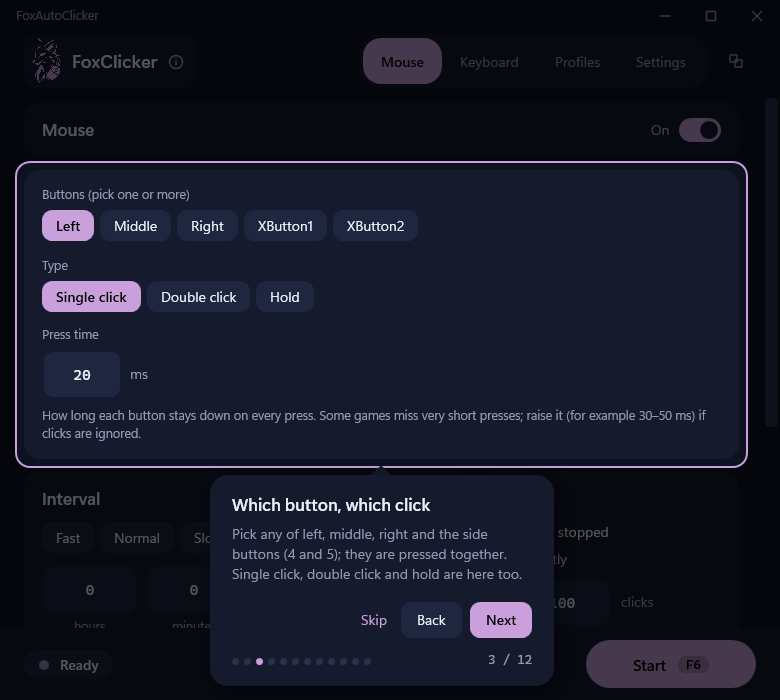
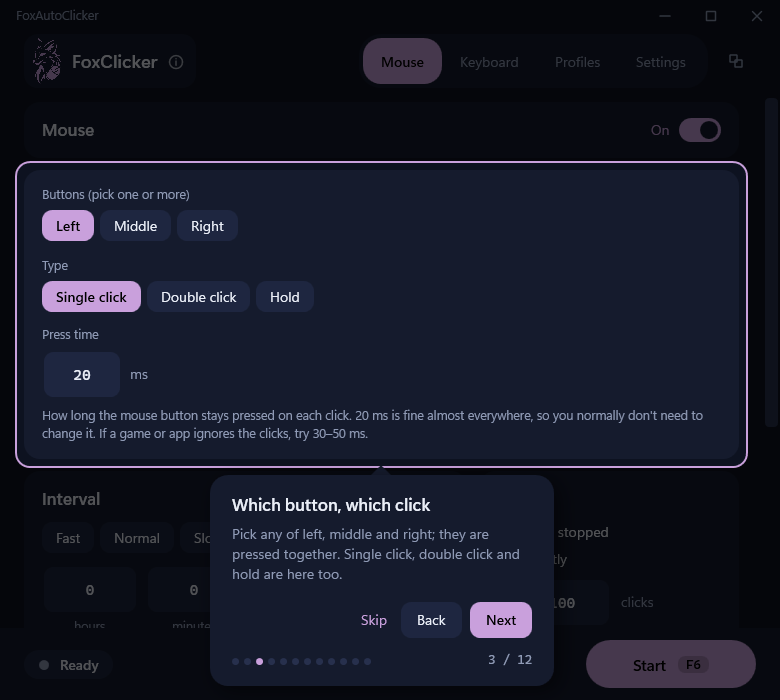
FoxClicker 0.3.7: fix hotkey flicker when held, mouse buttons row
- Holding the hotkey key no longer toggles the clicker on and off: the
  operating system's key auto-repeat is ignored until the key is released.
- The mouse tab offers left, middle and right buttons only (XButton1/2 stay
  available as the start/stop hotkey).
- Clearer wording for the press time setting.

diff --git a/MainWindow.xaml b/MainWindow.xaml
@@ -96,8 +96,6 @@
                                             <ToggleButton x:Name="MbLeft" Style="{StaticResource SegmentToggle}" Content="{local:L seg_left}" IsChecked="True" Margin="0,0,6,6"/>
                                             <ToggleButton x:Name="MbMiddle" Style="{StaticResource SegmentToggle}" Content="{local:L seg_middle}" Margin="0,0,6,6"/>
                                             <ToggleButton x:Name="MbRight" Style="{StaticResource SegmentToggle}" Content="{local:L seg_right}" Margin="0,0,6,6"/>
-                                            <ToggleButton x:Name="MbX1" Style="{StaticResource SegmentToggle}" Content="{local:L seg_x1}" ToolTip="{local:L seg_x1_tip}" Margin="0,0,6,6"/>
-                                            <ToggleButton x:Name="MbX2" Style="{StaticResource SegmentToggle}" Content="{local:L seg_x2}" ToolTip="{local:L seg_x2_tip}" Margin="0,0,6,6"/>
                                         </WrapPanel>
                                     </StackPanel>
                                     <StackPanel Grid.Row="1" Margin="0,10,0,0">

diff --git a/MainWindow.xaml.cs b/MainWindow.xaml.cs
@@ -142,15 +142,22 @@ public partial class MainWindow : Window
 
     DispatcherTimer? _holdTimer;
     readonly MouseHotkeyHook _mouseHook = new();
+    bool _hotkeyLatched;     // kısayol tuşu hâlâ basılı: tekrar eden basışlar yok sayılır
+    bool _holdStarted;       // "basılı tut" modunda bu basışla başladı: tuş bırakılınca durdur
 
     static bool IsMouseHotkey(int vk) => vk is 5 or 6;
 
     void OnHotkeyPressed()
     {
+        // Klavyede bir tuşu basılı tutunca işletim sistemi tekrar tekrar "basıldı" gönderir. Her biri aç/kapat sayılırsa
+        // tıklayıcı sürekli açılıp kapanır. Tuş bırakılana dek ilk basıştan sonrakileri yok say.
+        if (_hotkeyLatched) return;
+        _hotkeyLatched = true;
+
         var wasActive = _ctl.IsActive;
         Toggle(fromButton: false);
-        // "basılı tut" modunda: tuşla başladıysa, tuş bırakılınca durdur
-        if (_cfg.HotkeyHold && !wasActive && _ctl.IsActive) StartHoldWatch();
+        _holdStarted = _cfg.HotkeyHold && !wasActive && _ctl.IsActive;
+        StartHoldWatch();
     }
 
     void StartHoldWatch()
@@ -163,13 +170,18 @@ public partial class MainWindow : Window
 
     void HoldTick(object? sender, EventArgs e)
     {
-        if (!_ctl.IsActive) { _holdTimer?.Stop(); return; }
         var down = IsMouseHotkey(_cfg.HotkeyVk)
             ? _mouseHook.IsDown
             : (Native.GetAsyncKeyState(_cfg.HotkeyVk) & 0x8000) != 0;
         if (down) return;                                                    // hâlâ basılı
+
         _holdTimer?.Stop();
-        StopAll(finishedNaturally: false);
+        _hotkeyLatched = false;                                              // bırakıldı: yeni basış kabul edilir
+        if (_holdStarted)
+        {
+            _holdStarted = false;
+            if (_ctl.IsActive) StopAll(finishedNaturally: false);            // basılı tutma modunda bırakınca durdur
+        }
     }
 
     // ── başlık çubuğu ──
@@ -340,8 +352,6 @@ public partial class MainWindow : Window
         MbLeft.IsChecked = (m.Buttons & 1) != 0;
         MbMiddle.IsChecked = (m.Buttons & 2) != 0;
         MbRight.IsChecked = (m.Buttons & 4) != 0;
-        MbX1.IsChecked = (m.Buttons & 8) != 0;
-        MbX2.IsChecked = (m.Buttons & 16) != 0;
         TbPress.Text = m.PressMs.ToString();
         (m.Hold ? MtHold : m.Double ? MtDouble : MtSingle).IsChecked = true;
         (m.Fixed ? PosFixed : PosCursor).IsChecked = true;
@@ -382,8 +392,7 @@ public partial class MainWindow : Window
     {
         var m = _cfg.Mouse;
         m.Enabled = ChkMouse.IsChecked == true;
-        m.Buttons = (MbLeft.IsChecked == true ? 1 : 0) | (MbMiddle.IsChecked == true ? 2 : 0) | (MbRight.IsChecked == true ? 4 : 0)
-                    | (MbX1.IsChecked == true ? 8 : 0) | (MbX2.IsChecked == true ? 16 : 0);
+        m.Buttons = (MbLeft.IsChecked == true ? 1 : 0) | (MbMiddle.IsChecked == true ? 2 : 0) | (MbRight.IsChecked == true ? 4 : 0);
         m.Double = MtDouble.IsChecked == true;
         m.PressMs = Num(TbPress.Text, 1000);
         m.Hold = MtHold.IsChecked == true;

diff --git a/Loc.cs b/Loc.cs
@@ -52,12 +52,8 @@ public sealed class Loc : INotifyPropertyChanged
         ["seg_left"] = ("Sol", "Left"),
         ["seg_middle"] = ("Orta", "Middle"),
         ["seg_right"] = ("Sağ", "Right"),
-        ["seg_x1"] = ("XButton1", "XButton1"),
-        ["seg_x2"] = ("XButton2", "XButton2"),
-        ["seg_x1_tip"] = ("Yan düğme 4 (geri)", "Side button 4 (back)"),
-        ["seg_x2_tip"] = ("Yan düğme 5 (ileri)", "Side button 5 (forward)"),
         ["press_label"] = ("Basma süresi", "Press time"),
-        ["press_note"] = ("Her basışta düğmenin basılı kaldığı süre. Bazı oyunlar çok kısa basışları görmez; tıklamalar yok sayılıyorsa artırın (ör. 30–50 ms).", "How long each button stays down on every press. Some games miss very short presses; raise it (for example 30–50 ms) if clicks are ignored."),
+        ["press_note"] = ("Her tıklamada fare düğmesinin ne kadar süre basılı kalacağı. Çoğu yerde 20 ms yeterlidir, değiştirmeniz gerekmez. Bir oyun ya da uygulama tıklamaları görmüyorsa 30–50 ms deneyin.", "How long the mouse button stays pressed on each click. 20 ms is fine almost everywhere, so you normally don't need to change it. If a game or app ignores the clicks, try 30–50 ms."),
         ["type_label"] = ("Tür", "Type"),
         ["seg_single"] = ("Tek tık", "Single click"),
         ["seg_double"] = ("Çift tık", "Double click"),
@@ -199,7 +195,7 @@ public sealed class Loc : INotifyPropertyChanged
         ["tour_2_title"] = ("Fare ve klavye ayrı ayrı", "Mouse and keyboard, separately"),
         ["tour_2_text"] = ("Her sekmenin sağ üstündeki anahtarla o tıklayıcıyı açıp kapatırsınız. İkisi de açıksa birlikte çalışır.", "The switch at the top right of each tab turns that clicker on or off. If both are on, they run together."),
         ["tour_3_title"] = ("Hangi düğme, nasıl tıklansın", "Which button, which click"),
-        ["tour_3_text"] = ("Sol, orta, sağ ve yan düğmelerden (4 ve 5) istediğiniz kadarını seçin; birlikte basılır. Tek tık, çift tık ya da basılı tutma da burada.", "Pick any of left, middle, right and the side buttons (4 and 5); they are pressed together. Single click, double click and hold are here too."),
+        ["tour_3_text"] = ("Sol, orta ve sağ düğmeden istediğiniz kadarını seçin; birlikte basılır. Tek tık, çift tık ya da basılı tutma da burada.", "Pick any of left, middle and right; they are pressed together. Single click, double click and hold are here too."),
         ["tour_4_title"] = ("Ne sıklıkla", "How often"),
         ["tour_4_text"] = ("Hızlı, Normal ya da Yavaş ön ayarını seçin ya da süreyi milisaniyeye kadar kendiniz yazın. Tekrar sayısı sağda.", "Choose the Fast, Normal or Slow preset, or type the time down to the millisecond. The repeat count is on the right."),
         ["tour_5_title"] = ("Nerede tıklansın", "Where to click"),

diff --git a/README.tr.md b/README.tr.md
@@ -15,7 +15,7 @@
 ## Özellikler
 
 **Fare**
-- Sol, orta, sağ ve iki yan düğme (4 ve 5): istediğiniz kombinasyonu seçin, birlikte basılır. Tek tık, çift tık ya da **basılı tutma**
+- Sol, orta ve sağ düğme: istediğiniz kombinasyonu seçin, birlikte basılır. Tek tık, çift tık ya da **basılı tutma**
 - Saatten milisaniyeye aralık; **Hızlı / Normal / Yavaş** ön ayarları (50 ms, 250 ms, 1 sn) ya da istediğiniz özel değer
 - Ritmi doğal göstermek için isteğe bağlı rastgele sapma
 - Durdurulana kadar ya da belirli sayıda tekrar
@@ -95,10 +95,10 @@ Yükleyiciyi derlemek için ayrıca [Inno Setup 6](https://jrsoftware.org/isinfo
 
 ```powershell
 dotnet publish -c Release -r win-x64 --self-contained -p:PublishReadyToRun=true -o publish
-ISCC.exe /DMyAppVersion=0.3.6 installer\FoxClicker.iss     # Releases\FoxClicker-Setup-0.3.6.exe
+ISCC.exe /DMyAppVersion=0.3.7 installer\FoxClicker.iss     # Releases\FoxClicker-Setup-0.3.7.exe
 ```
 
-Taşınabilir zip için `publish` klasörünün içeriğini `FoxClicker-Portable-0.3.6.zip` olarak sıkıştırın. İki dosyayı `v0.3.6` etiketli bir GitHub sürümüne ekleyin; kurulu kopyalar güncellemeyi sürümdeki `*Setup*.exe` dosyasından bulur.
+Taşınabilir zip için `publish` klasörünün içeriğini `FoxClicker-Portable-0.3.7.zip` olarak sıkıştırın. İki dosyayı `v0.3.7` etiketli bir GitHub sürümüne ekleyin; kurulu kopyalar güncellemeyi sürümdeki `*Setup*.exe` dosyasından bulur.
 
 ## Emeği geçenler
 

diff --git a/README.md b/README.md
@@ -15,7 +15,7 @@ English · [Türkçe](README.tr.md)
 ## Features
 
 **Mouse**
-- Left, middle, right and the two side buttons (4 and 5): pick any combination and they are pressed together. Single click, double click or **hold**
+- Left, middle and right buttons: pick any combination and they are pressed together. Single click, double click or **hold**
 - Intervals from hours down to milliseconds, with **Fast / Normal / Slow** presets (50 ms, 250 ms, 1 s) or any custom value
 - Optional random jitter so the rhythm feels natural
 - Repeat until stopped, or a fixed number of times
@@ -95,10 +95,10 @@ To build the installer you also need [Inno Setup 6](https://jrsoftware.org/isinf
 
 ```powershell
 dotnet publish -c Release -r win-x64 --self-contained -p:PublishReadyToRun=true -o publish
-ISCC.exe /DMyAppVersion=0.3.6 installer\FoxClicker.iss     # Releases\FoxClicker-Setup-0.3.6.exe
+ISCC.exe /DMyAppVersion=0.3.7 installer\FoxClicker.iss     # Releases\FoxClicker-Setup-0.3.7.exe
 ```
 
-For the portable zip, zip the contents of `publish` as `FoxClicker-Portable-0.3.6.zip`. Attach both files to a GitHub release tagged `v0.3.6`; installed copies find the update through the release's `*Setup*.exe` asset.
+For the portable zip, zip the contents of `publish` as `FoxClicker-Portable-0.3.7.zip`. Attach both files to a GitHub release tagged `v0.3.7`; installed copies find the update through the release's `*Setup*.exe` asset.
 
 ## Credits
 
